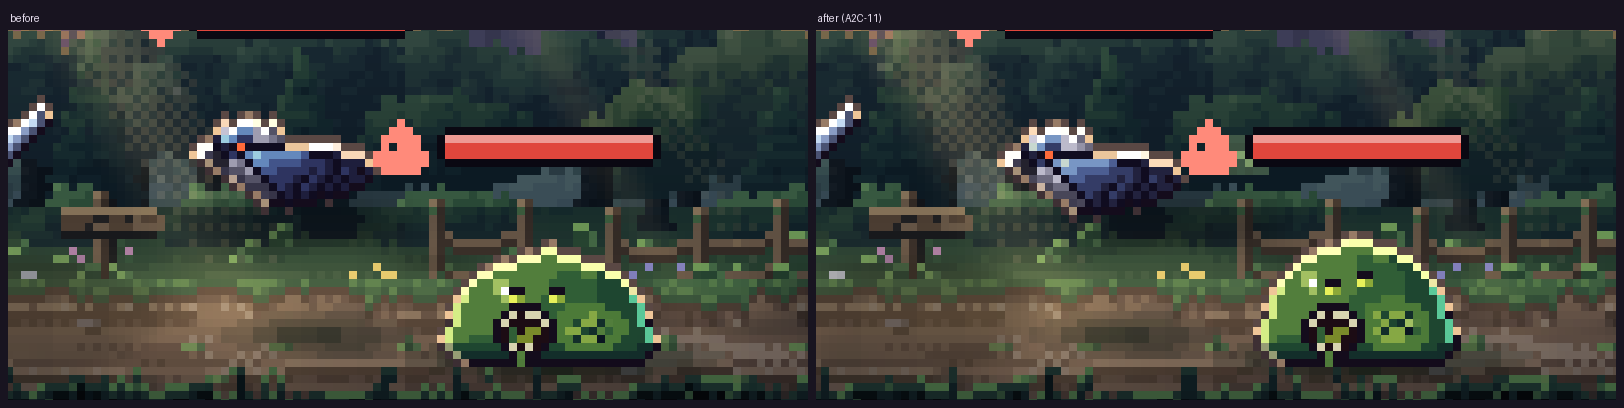
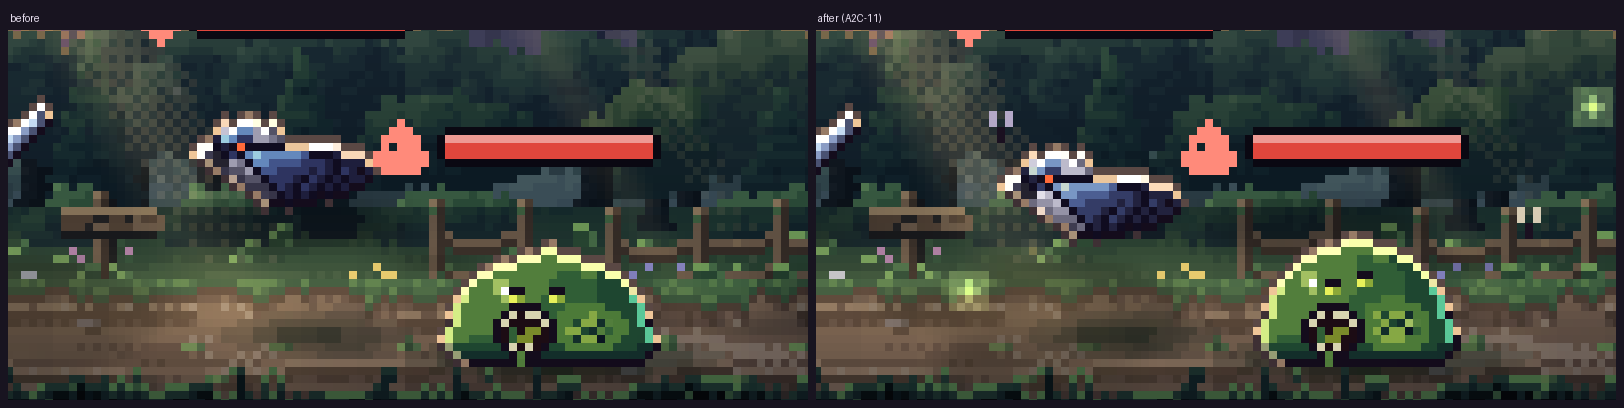
The crow's mantle and belly another step paler (its mini too); Act 3's foreground strip calm (plum blades, a muted rust rim instead of a row of orange sparks)
Boot check: phone ok, desk ok.

Claude-Session: https://claude.ai/code/session_01XHk7WXwUp52tGKCfxLyk6o

diff --git a/src/engine/backdrop.ts b/src/engine/backdrop.ts
@@ -1979,7 +1979,8 @@ function foreground(theme: Theme, w: number, h: number, frame: number): Pix {
       frond(p, x, H - 1, len, d, SWAY[(frame + (x > w / 2 ? 2 : 0)) % 4], L);
     grassStrip(p, w, h, frame, L, 55, 0.85);
   } else {
-    const L: FgLook = { blade: ramp('#12040a', '#220a10', '#381218', '#521c1c'), rim: col('#c4602e'), bush: ramp('#0a0306', '#14060c', '#200a12', '#32121a', '#4a1c1e', '#6a2c22'), ink };
+    // (A2C-10) plum blades with a muted rust rim: the strip at the frame's foot calm, not a row of orange sparks
+    const L: FgLook = { blade: ramp('#10060e', '#1c0a16', '#2c1020', '#3e1a26'), rim: col('#8a4434'), bush: ramp('#0a0308', '#14060e', '#200a16', '#30121e', '#461c24', '#622c28'), ink };
     // a great root arching out of the ground in each corner, lit along its top by the low sun
     const arch = (x0: number, dir: number, span: number, rise: number, th: number) => {
       for (let i = 0; i <= span; i++) {
@@ -2020,7 +2021,7 @@ function foreground(theme: Theme, w: number, h: number, frame: number): Pix {
     toadstool(p, 44, h + 1, 1, capRed, stemR, ink, true);
     toadstool(p, w - 42, h, 2, capRed, stemR, ink, true);
   }
-  const [rim, mid] = theme === 'forest' ? [col('#5e9a3c'), col('#25492a')] : theme === 'ruins' ? [col('#40707e'), col('#1a3640')] : [col('#c45a30'), col('#5e1e1e')];
+  const [rim, mid] = theme === 'forest' ? [col('#5e9a3c'), col('#25492a')] : theme === 'ruins' ? [col('#40707e'), col('#1a3640')] : [col('#8a4434'), col('#3a1a26')];
   backlight(p, rim, mid, theme.length);
   gradeLayer(theme, p, 1e9);
   return p;

diff --git a/src/engine/art-minis.ts b/src/engine/art-minis.ts
@@ -57,7 +57,7 @@ const GREENMARCH_MINIS: Record<string, Mini> = {
   // (A2C-14) a hooded crow, as in the fights: a black hood with a red eye, a sharp horn beak, an ash-grey mantle,
   // black wings swept back to a fan tail
   crow: {
-    pal: { h: '#1a1a2c', H: '#3a3c5c', m: '#8a889c', M: '#b4b2c4', s: '#5a586c', w: '#22243c', W: '#4a5276', g: '#6c6a7e', G: '#a4a0b0', E: '#ff6a3a', y: '#3e3c50' },
+    pal: { h: '#1a1a2c', H: '#3a3c5c', m: '#9c9aae', M: '#c4c2d2', s: '#64627a', w: '#22243c', W: '#4a5276', g: '#6c6a7e', G: '#a4a0b0', E: '#ff6a3a', y: '#3e3c50' },
     frames: [
       ['..HHh.......', '.HhEh.......', 'GghhhmMm....', '..hmmmmsss..', '...mWWWwww.w', '...swwwwwwww', '....sww..ww.', '....y..y....'],
       ['.......WW...', '..HHh.WWww..', '.HhEhWWww...', 'GghhhmMw....', '..hmmmmsss..', '...mmssswwww', '....sss..ww.', '....y..y....'],

diff --git a/src/engine/art-foes.ts b/src/engine/art-foes.ts
@@ -127,7 +127,7 @@ const CROW_PAL: Pal = {
 // catches the late sun, so the crow reads by value against the dark trees, not only by its rim
 const CROW_GREY = ['#262434', '#484658', '#6c6a7e', '#9492a6', '#bcbacb', '#e2e0ea'];
 const CROW_SHADES: Record<string, Shade> = {
-  b: { ramp: CROW_GREY, same: 'hjEekfF', top: [4, 4], left: [4], right: [2], bottom: [1, 2], mid: 3 },
+  b: { ramp: CROW_GREY, same: 'hjEekfF', top: [5, 4], left: [4], right: [2], bottom: [2, 3], mid: 4 },
   q: { ramp: CROW, same: 'hjEekfFb', top: [4, 3], left: [3], right: [1], bottom: [0, 1], mid: 2 }, // the black hood
   w: { ramp: CROW, same: 'fFhj', top: [4, 3], left: [3], right: [1], bottom: [1, 1], mid: 2 },
 };
